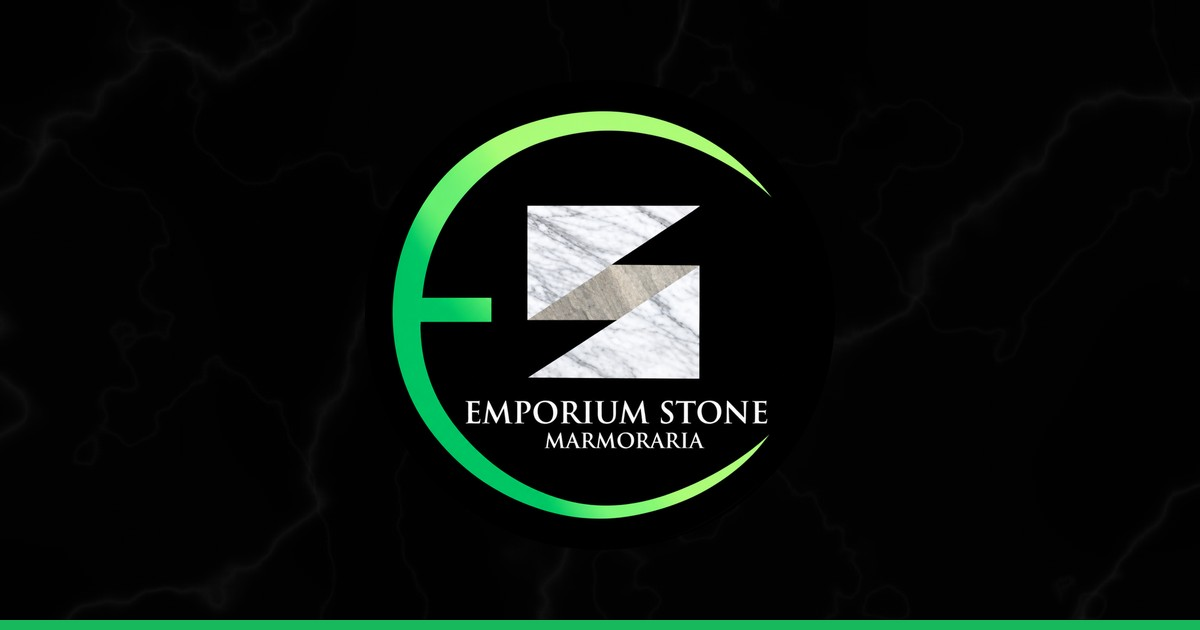
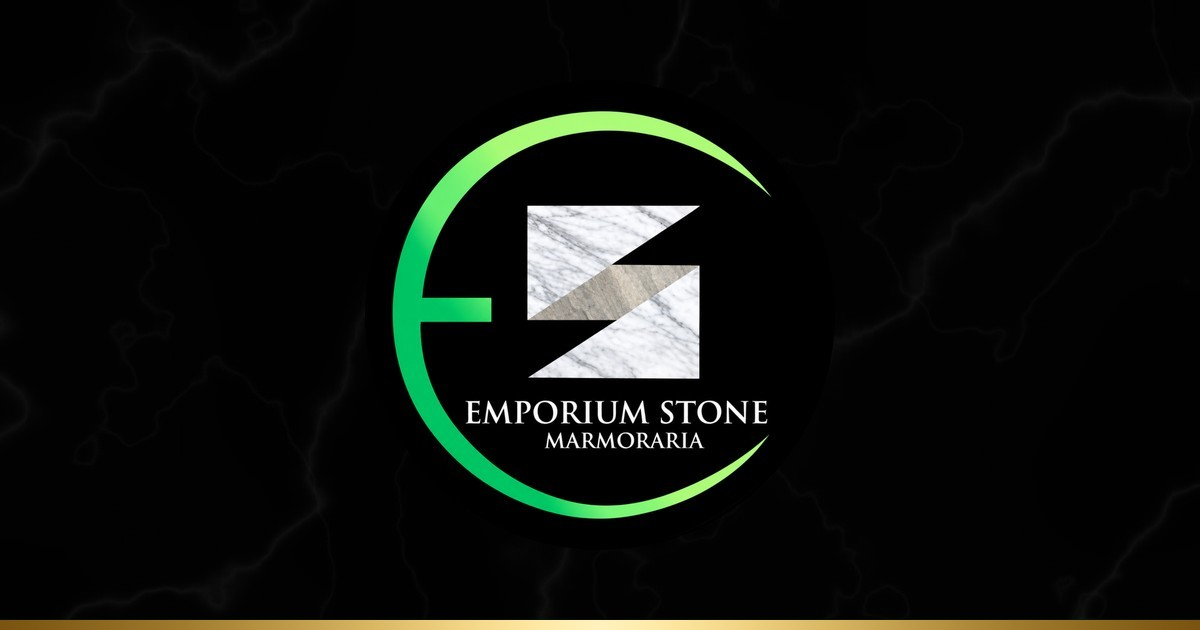
Fundo em mármore com veios dourados, verde trocado por dourado e nova foto do CEO
Claude-Session: https://claude.ai/code/session_01AbjRSK3UTqCQNtBB9hZPyQ

Changed region(s): [[0.0, 0.9651, 1.0, 1.0]]

diff --git a/index.html b/index.html
@@ -38,9 +38,12 @@ Técnico: mobile primeiro, contraste AA, foco visível, transform/opacity, prefe
   --nero:#0c0d0d;           /* nero marquina */
   --vein:#5d6461;           /* cinza do veio */
   --line:#dfe2df;
-  --green:#119c4c;          /* verde do logo, versão legível no branco */
-  --green-hi:#5fe08a;       /* verde do logo no preto */
-  --lime:#a6f272;
+  --green:#8a6416;          /* dourado para texto no branco (AA) */
+  --green-hi:#e8c36a;       /* dourado claro no preto */
+  --lime:#f7e3a3;
+  --gold-grad:linear-gradient(100deg,#7a5410 0%,#b8871f 22%,#e9c766 42%,#fff1bf 50%,#e3bb52 58%,#b8871f 78%,#7a5410 100%);
+  --gold-deep:linear-gradient(100deg,#6b470a 0%,#9c6d14 25%,#c99628 45%,#e2b84e 52%,#c99628 60%,#9c6d14 80%,#6b470a 100%);
+  --gold-flat:linear-gradient(135deg,#a57a1d,#e6c062 55%,#c99a2e);
   --ink:#151716;
   --f-display:"Marcellus","Cormorant Garamond",Georgia,serif;
   --f-body:"Manrope","Segoe UI",system-ui,sans-serif;
@@ -51,10 +54,11 @@ Técnico: mobile primeiro, contraste AA, foco visível, transform/opacity, prefe
 }
 *{box-sizing:border-box}
 html{overflow-x:clip;scroll-behavior:smooth;scroll-padding-top:84px}
-@media (prefers-reduced-motion:reduce){html{scroll-behavior:auto}*,*::before,*::after{animation-duration:.01ms!important;animation-iteration-count:1!important;transition-duration:.01ms!important}}
+@media (prefers-reduced-motion:reduce){html{scroll-behavior:auto}.hero h1 em,.light .solo-copy h2 em{font-style:normal;background:var(--gold-deep)!important;background-size:220% 100%!important;-webkit-background-clip:text!important;background-clip:text!important}
+.solo-copy h2 em,.final h2 em{animation:none}*,*::before,*::after{animation-duration:.01ms!important;animation-iteration-count:1!important;transition-duration:.01ms!important}}
 body{margin:0;background:var(--chalk);color:var(--ink);font:400 16px/1.65 var(--f-body);-webkit-font-smoothing:antialiased;overflow-x:hidden}
 /* mármore em todo o site */
-body::after{content:"";position:fixed;inset:0;z-index:-1;background:url(img/marmore-fundo.jpg) center/900px repeat;opacity:.55}
+body::after{content:"";position:fixed;inset:0;z-index:-1;background:url(img/marmore-fundo.jpg) center/cover no-repeat;opacity:1}
 body::before{content:"";position:fixed;inset:0 0 auto;height:env(safe-area-inset-top,0px);z-index:60;background:rgba(251,251,250,.96)}
 img,video{display:block;max-width:100%}
 a{color:inherit}
@@ -62,15 +66,15 @@ a{color:inherit}
 h1,h2,h3{font-family:var(--f-display);font-weight:400;line-height:1.08;margin:0;text-wrap:balance;letter-spacing:.005em}
 p{margin:0}
 .wrap{max-width:var(--wrap);margin:0 auto;padding-left:max(20px,env(safe-area-inset-left,0px));padding-right:max(20px,env(safe-area-inset-right,0px))}
-.sec{position:relative;padding-block:clamp(72px,10vw,128px);background:rgba(255,255,255,.78)}
-.sec.dark{background:rgba(12,13,13,.95);color:#eef0ee}
-.sec.dark::before{content:"";position:absolute;inset:0;background:url(img/marmore-fundo.jpg) center/900px repeat;filter:invert(1);opacity:.07;pointer-events:none}
+.sec{position:relative;padding-block:clamp(72px,10vw,128px);background:rgba(255,255,255,.5)}
+.sec.dark{background:#0c0d0d;color:#eef0ee}
+.sec.dark::before{content:"";position:absolute;inset:0;background:url(img/marmore-fundo-escuro.jpg) center/cover no-repeat;opacity:.55;pointer-events:none}
 .sec>.wrap{position:relative}
 .eyebrow{display:inline-flex;align-items:center;gap:10px;font:700 12px/1 var(--f-body);letter-spacing:.2em;text-transform:uppercase;color:var(--green)}
 .dark .eyebrow{color:var(--green-hi)}
-.eyebrow::before{content:"";width:28px;height:2px;background:linear-gradient(90deg,var(--green),var(--lime))}
+.eyebrow::before{content:"";width:28px;height:2px;background:var(--gold-grad)}
 .h2{font-size:clamp(34px,5vw,58px)}
-.lead{font-size:clamp(16px,1.6vw,18px);color:var(--vein);max-width:58ch}
+.lead{font-size:clamp(16px,1.6vw,18px);color:#4a504d;max-width:58ch}
 .dark .lead{color:#b9bfbb}
 .sec-head{display:grid;gap:18px;margin-bottom:clamp(36px,5vw,60px);max-width:760px}
 .sec-head.split{max-width:none;grid-template-columns:1fr;align-items:end}
@@ -82,11 +86,11 @@ p{margin:0}
 .btn{display:inline-flex;align-items:center;gap:10px;min-height:52px;padding:0 24px;border-radius:999px;font:700 15px/1 var(--f-body);text-decoration:none;border:1px solid transparent;transition:transform .2s,background .2s,color .2s,border-color .2s;cursor:pointer}
 .btn:hover{transform:translateY(-2px)}
 .btn-wa{background:var(--nero);color:#fff}
-.btn-wa .dot{width:8px;height:8px;border-radius:50%;background:var(--green-hi);box-shadow:0 0 0 4px rgba(95,224,138,.2)}
+.btn-wa .dot{width:8px;height:8px;border-radius:50%;background:var(--green-hi);box-shadow:0 0 0 4px rgba(232,195,106,.25)}
 .btn-wa:hover{background:#fff;color:var(--nero);border-color:var(--nero)}
 .btn-ghost{border-color:#c9cec9;color:var(--ink);background:rgba(255,255,255,.6)}
 .btn-ghost:hover{background:var(--nero);color:#fff;border-color:var(--nero)}
-.dark .btn-wa{background:linear-gradient(100deg,var(--green-hi),var(--lime));color:var(--nero)}
+.dark .btn-wa{background:var(--gold-grad);color:var(--nero)}
 .dark .btn-wa .dot{background:var(--nero);box-shadow:none}
 .dark .btn-wa{border-color:var(--green-hi)}
 .dark .btn-wa:hover{background:var(--nero);color:var(--green-hi)}
@@ -112,11 +116,12 @@ footer a{transition:color .2s}footer a:hover{color:var(--green-hi)}
 @media(min-width:980px){.menu{display:flex}.nav .btn span.t-long{display:inline}.nav .btn span.t-short{display:none}}
 
 /* hero */
-.hero{padding-block:clamp(40px,6vw,80px) clamp(56px,7vw,96px);background:rgba(255,255,255,.72)}
+.hero{padding-block:clamp(40px,6vw,80px) clamp(56px,7vw,96px);background:rgba(255,255,255,.55)}
 .hero .wrap{display:grid;gap:44px;align-items:center}
 @media(min-width:960px){.hero .wrap{grid-template-columns:1.05fr .95fr;gap:64px}}
 .hero h1{font-size:clamp(40px,6.4vw,78px)}
-.hero h1 em{font-style:normal;background:linear-gradient(100deg,var(--green),#4fc96f);-webkit-background-clip:text;background-clip:text;color:transparent}
+.hero h1 em{font-style:normal;background:var(--gold-deep);background-size:220% 100%;-webkit-background-clip:text;background-clip:text;color:transparent;animation:shine 6s ease-in-out infinite}
+@keyframes shine{0%,100%{background-position:0% 50%}50%{background-position:100% 50%}}
 .hero-copy{display:grid;gap:26px}
 .hero-sub{font-size:clamp(16px,1.7vw,19px);color:var(--vein);max-width:52ch}
 .hero-cta{display:flex;flex-wrap:wrap;gap:12px}
@@ -140,7 +145,7 @@ footer a{transition:color .2s}footer a:hover{color:var(--green-hi)}
 @media(max-width:600px){.ficha{left:10px;bottom:10px;min-width:0}.hero-art .slab{inset:-10px -6px auto auto}}
 
 /* selos */
-.seals{background:rgba(255,255,255,.9);border-block:1px solid var(--line)}
+.seals{background:rgba(255,255,255,.82);border-block:1px solid var(--line)}
 .seals ul{list-style:none;margin:0;padding:0;display:grid;grid-template-columns:1fr 1fr}
 @media(min-width:900px){.seals ul{grid-template-columns:repeat(4,1fr)}}
 .seals li{min-width:0;display:flex;align-items:center;gap:14px;padding:22px 16px;font-weight:700;font-size:14px;line-height:1.3;text-transform:uppercase;letter-spacing:.06em}
@@ -153,7 +158,7 @@ footer a{transition:color .2s}footer a:hover{color:var(--green-hi)}
 .band{background:var(--nero);color:#fff;overflow:hidden;padding-block:20px;position:relative}
 .band .track{display:flex;gap:44px;width:max-content;animation:marquee 38s linear infinite}
 .band span{font:400 clamp(22px,3vw,32px)/1 var(--f-display);letter-spacing:.06em;display:inline-flex;align-items:center;gap:44px;white-space:nowrap}
-.band span::after{content:"";width:12px;height:12px;background:linear-gradient(135deg,var(--green-hi),var(--lime));clip-path:polygon(0 0,100% 0,0 100%)}
+.band span::after{content:"";width:12px;height:12px;background:var(--gold-flat);clip-path:polygon(0 0,100% 0,0 100%)}
 @keyframes marquee{to{transform:translateX(-50%)}}
 
 /* fichas técnicas */
@@ -207,10 +212,11 @@ figcaption span{font-size:12px;letter-spacing:.14em;text-transform:uppercase;opa
 .solo-media .tag{position:absolute;top:16px;left:16px;display:inline-flex;align-items:center;gap:8px;background:rgba(0,0,0,.62);color:#fff;padding:8px 12px;border-radius:999px;font:700 11px/1 var(--f-body);letter-spacing:.16em;text-transform:uppercase}
 .solo-media .tag i{width:7px;height:7px;border-radius:50%;background:#ff4d4d;animation:blink 1.4s infinite}
 @keyframes blink{50%{opacity:.25}}
-.solo-media .corner{position:absolute;right:-14px;bottom:-14px;width:40%;aspect-ratio:1;z-index:-1;background:linear-gradient(135deg,var(--green-hi),var(--lime));clip-path:polygon(100% 0,100% 100%,0 100%)}
+.solo-media .corner{position:absolute;right:-14px;bottom:-14px;width:40%;aspect-ratio:1;z-index:-1;background:var(--gold-flat);clip-path:polygon(100% 0,100% 100%,0 100%)}
 .solo-copy{display:grid;gap:22px}
-.solo-copy h2 em{font-style:normal;color:var(--green-hi)}
-.light .solo-copy h2 em{color:var(--green)}
+.light .solo-copy h2 em{font-style:normal;background:var(--gold-deep)!important;background-size:220% 100%!important;-webkit-background-clip:text!important;background-clip:text!important}
+.solo-copy h2 em,.final h2 em{font-style:normal;background:var(--gold-grad);background-size:220% 100%;-webkit-background-clip:text;background-clip:text;color:transparent;animation:shine 6s ease-in-out infinite}
+
 .points{list-style:none;padding:0;margin:8px 0 0;display:grid;gap:14px}
 .points li{display:grid;grid-template-columns:auto 1fr;gap:14px;align-items:start}
 .points .ico{width:40px;height:40px;padding:9px;border:1px solid rgba(255,255,255,.18);border-radius:50%;color:var(--green-hi)}
@@ -238,7 +244,7 @@ figcaption span{font-size:12px;letter-spacing:.14em;text-transform:uppercase;opa
 .dark .arw{background:transparent;color:#fff;border-color:rgba(255,255,255,.3)}
 .dark .arw:hover{background:#fff;color:var(--nero)}
 .progress{flex:1;height:2px;background:var(--line);position:relative;max-width:420px}
-.progress i{position:absolute;left:0;top:0;bottom:0;width:20%;background:linear-gradient(90deg,var(--green),var(--lime));transition:left .3s,width .3s}
+.progress i{position:absolute;left:0;top:0;bottom:0;width:20%;background:var(--gold-grad);transition:left .3s,width .3s}
 
 /* dois grandes */
 .duo{display:grid;gap:18px}
@@ -254,7 +260,7 @@ figcaption span{font-size:12px;letter-spacing:.14em;text-transform:uppercase;opa
 .vcar{position:relative;height:clamp(420px,62vw,600px);margin-top:10px}
 .vcar .vitem{position:absolute;top:0;left:50%;width:min(72vw,360px);aspect-ratio:4/5;margin-left:calc(min(72vw,360px)/-2);transition:transform .6s cubic-bezier(.2,.7,.2,1),opacity .6s,filter .6s;cursor:pointer;overflow:hidden;background:#111;border:0;padding:0}
 .vcar .vitem video{width:100%;height:100%;object-fit:cover;pointer-events:none}
-.vcar .vitem.on{cursor:default;box-shadow:0 30px 80px -30px rgba(95,224,138,.45);outline:1px solid rgba(95,224,138,.5)}
+.vcar .vitem.on{cursor:default;box-shadow:0 30px 80px -30px rgba(232,195,106,.45);outline:1px solid rgba(232,195,106,.55)}
 .vcar .vitem .vcap{position:absolute;left:0;right:0;bottom:0;padding:40px 16px 14px;background:linear-gradient(transparent,rgba(0,0,0,.75));color:#fff;text-align:left;font:400 18px/1.2 var(--f-display);opacity:0;transition:opacity .4s}
 .vcar .vitem.on .vcap{opacity:1}
 .vctrl{display:flex;justify-content:center;align-items:center;gap:14px;margin-top:8px}
@@ -271,7 +277,7 @@ figcaption span{font-size:12px;letter-spacing:.14em;text-transform:uppercase;opa
 .steps li::before{counter-increment:s;content:"0" counter(s);font:400 46px/1 var(--f-display);color:var(--green)}
 .steps li .ico{position:absolute;right:22px;top:26px;width:28px;height:28px;color:var(--green)}
 .steps h3{font-size:23px}
-.steps li:nth-child(2n){background:linear-gradient(140deg,#0c8a43,#0f9a4b);border-color:#0c8a43;color:#fff}
+.steps li:nth-child(2n){background:linear-gradient(135deg,#7a540f,#a9781c 50%,#8a6114);border-color:#7a540f;color:#fff}
 .steps li:nth-child(2n)::before,.steps li:nth-child(2n) .ico{color:#fff}
 .steps li:nth-child(2n) p{color:rgba(255,255,255,.92)}
 .steps p{font-size:14.5px;color:var(--vein)}
@@ -298,7 +304,7 @@ figcaption span{font-size:12px;letter-spacing:.14em;text-transform:uppercase;opa
 .rev header small{color:#7b827e;font-size:12.5px}
 .rev .stars{font-size:14px}
 .rev p{font-size:15px;color:#333836}
-.rev mark{background:linear-gradient(transparent 60%,rgba(166,242,114,.55) 60%);color:inherit}
+.rev mark{background:linear-gradient(transparent 60%,rgba(232,195,106,.5) 60%);color:inherit}
 
 /* CEO */
 .ceo{display:grid;gap:44px;align-items:center}
@@ -307,7 +313,7 @@ figcaption span{font-size:12px;letter-spacing:.14em;text-transform:uppercase;opa
 .ceo-photo .p{aspect-ratio:4/5;overflow:hidden;background:#cfd2d6}
 .ceo-photo img{width:100%;height:100%;object-fit:cover}
 .ceo-photo{isolation:isolate}
-.ceo-photo .slab{position:absolute;left:-12px;top:-12px;width:66%;height:82%;z-index:-1;background:linear-gradient(100deg,#0fbf55 0%,#8ef5b0 45%,#a6f272 100%);clip-path:polygon(0 0,calc(100% - 14px) 0,100% 14px,100% 100%,14px 100%,0 calc(100% - 14px))}
+.ceo-photo .slab{position:absolute;left:-12px;top:-12px;width:66%;height:82%;z-index:-1;background:var(--gold-grad);clip-path:polygon(0 0,calc(100% - 14px) 0,100% 14px,100% 100%,14px 100%,0 calc(100% - 14px))}
 @media(max-width:600px){.ceo-photo .slab{left:-8px;top:-8px}}
 .ceo-photo .sig{position:absolute;right:-10px;bottom:24px;background:#fff;color:var(--ink);padding:14px 18px;display:grid;gap:3px}
 .ceo-photo .sig b{font:400 22px/1 var(--f-display)}
@@ -326,8 +332,8 @@ blockquote::before{content:"\201C";position:absolute;top:-8px;left:-4px;font:400
 .panel .contact-list{margin-top:auto}
 .panel h3{font-size:28px;display:flex;align-items:center;gap:12px}
 .panel h3 .ico{color:var(--green);width:26px;height:26px}
-.status{display:inline-flex;align-items:center;gap:8px;font-weight:700;font-size:13px;padding:7px 12px;border-radius:999px;background:#eef8f1;color:#0b7a3a;width:max-content}
-.status i{width:8px;height:8px;border-radius:50%;background:#18b85c}
+.status{display:inline-flex;align-items:center;gap:8px;font-weight:700;font-size:13px;padding:7px 12px;border-radius:999px;background:#f7efdb;color:#7a5410;width:max-content}
+.status i{width:8px;height:8px;border-radius:50%;background:#c99a2e}
 .status.closed{background:#f5eeee;color:#a12c2c}.status.closed i{background:#d24545}
 .hours{width:100%;border-collapse:collapse;font-variant-numeric:tabular-nums;font-size:15px}
 .hours td{padding:11px 0;vertical-align:top;border-bottom:1px dashed #d6dad7}
@@ -353,7 +359,7 @@ blockquote::before{content:"\201C";position:absolute;top:-8px;left:-4px;font:400
 .final .wrap{display:grid;gap:28px}
 @media(min-width:900px){.final .wrap{grid-template-columns:1.3fr .7fr;align-items:end}}
 .final h2{font-size:clamp(38px,5.8vw,72px)}
-.final h2 em{font-style:normal;color:var(--green-hi)}
+
 .final .side{display:grid;gap:16px;justify-items:start}
 
 /* rodapé */
@@ -376,9 +382,9 @@ footer .legal{grid-column:1/-1;border-top:1px solid #1d2120;padding-top:20px;dis
 .lb .lp{left:calc(10px + env(safe-area-inset-left,0px))}.lb .ln{right:calc(10px + env(safe-area-inset-right,0px))}
 .lb .arw{background:rgba(255,255,255,.08);color:#fff;border-color:rgba(255,255,255,.35)}
 .lb .arw:hover{background:#fff;color:var(--nero)}
-.fab{position:fixed;right:calc(18px + env(safe-area-inset-right,0px));bottom:calc(18px + env(safe-area-inset-bottom,0px));z-index:70;width:60px;height:60px;border-radius:50%;background:#25d366;color:#fff;display:grid;place-items:center;box-shadow:0 14px 30px -10px rgba(0,0,0,.45);transition:transform .2s}
-.fab{border:2px solid #25d366;transition:transform .2s,background .2s,color .2s}
-.fab:hover{transform:scale(1.06);background:#fff;color:#25d366}
+.fab{position:fixed;right:calc(18px + env(safe-area-inset-right,0px));bottom:calc(18px + env(safe-area-inset-bottom,0px));z-index:70;width:60px;height:60px;border-radius:50%;background:var(--gold-flat);color:#1a1205;display:grid;place-items:center;box-shadow:0 14px 30px -10px rgba(0,0,0,.45);transition:transform .2s}
+.fab{border:2px solid #c99a2e;transition:transform .2s,background .2s,color .2s}
+.fab:hover{transform:scale(1.06);background:var(--nero);color:var(--green-hi)}
 .fab svg{width:30px;height:30px;fill:currentColor}
 
 /* revelar */
@@ -387,7 +393,7 @@ footer .legal{grid-column:1/-1;border-top:1px solid #1d2120;padding-top:20px;dis
 
 /* abertura com o logo */
 .intro{position:fixed;inset:0;z-index:100;background:var(--nero);display:grid;place-items:center;transition:transform .9s cubic-bezier(.7,0,.2,1),opacity .9s}
-.intro::before{content:"";position:absolute;inset:0;background:url(img/marmore-fundo.jpg) center/900px repeat;filter:invert(1);opacity:.08}
+.intro::before{content:"";position:absolute;inset:0;background:url(img/marmore-fundo-escuro.jpg) center/cover no-repeat;opacity:.6}
 .intro .lg{position:relative;width:min(46vw,240px);aspect-ratio:1;animation:lgIn 1.1s cubic-bezier(.2,.8,.2,1) both}
 .intro .lg img{width:100%;height:100%;border-radius:50%}
 .intro .lg::after{content:"";position:absolute;inset:-14px;border-radius:50%;border:2px solid transparent;border-top-color:var(--green-hi);border-right-color:var(--lime);animation:ring 1.4s .2s cubic-bezier(.4,0,.2,1) both}
@@ -544,7 +550,7 @@ footer .legal{grid-column:1/-1;border-top:1px solid #1d2120;padding-top:20px;dis
   </section>
 
   <!-- PORTFÓLIO DESTAQUE -->
-  <section class="sec" id="portfolio" aria-labelledby="h-port" style="background:rgba(255,255,255,.62)">
+  <section class="sec" id="portfolio" aria-labelledby="h-port" style="background:rgba(255,255,255,.4)">
     <div class="wrap">
       <div class="sec-head"><span class="eyebrow">Portfólio</span><h2 class="h2" id="h-port">Transformamos pedras em ambientes únicos</h2></div>
       <div class="feat">
@@ -613,7 +619,7 @@ footer .legal{grid-column:1/-1;border-top:1px solid #1d2120;padding-top:20px;dis
   </section>
 
   <!-- CARROSSEL DE VÍDEOS -->
-  <section class="sec dark" aria-labelledby="h-vid" style="background:rgba(7,8,8,.97);padding-top:0">
+  <section class="sec dark" aria-labelledby="h-vid" style="background:#070808;padding-top:0">
     <div class="wrap">
       <div class="sec-head" style="text-align:center;margin-inline:auto;justify-items:center"><span class="eyebrow">Por dentro da obra</span><h2 class="h2" id="h-vid">Veja o trabalho de perto</h2><p class="lead">Do corte na oficina à peça instalada. Toque nos vídeos dos lados para trazer para o centro.</p></div>
       <div class="vcar" id="vcar"></div>
@@ -630,7 +636,7 @@ footer .legal{grid-column:1/-1;border-top:1px solid #1d2120;padding-top:20px;dis
     <div class="wrap solo flip">
       <div class="solo-media rv">
         <div class="vbox cut"><video src="video/projeto-3d.mp4" poster="video/projeto-3d.jpg" muted loop playsinline autoplay preload="metadata" aria-label="Projeto de bancada sendo ajustado em visualização 3D no tablet"></video></div>
-        <span class="tag" style="background:rgba(17,156,76,.9)"><svg class="ico" style="width:14px;height:14px"><use href="#i-tablet"/></svg>Visualização 3D</span>
+        <span class="tag" style="background:rgba(138,100,22,.92)"><svg class="ico" style="width:14px;height:14px"><use href="#i-tablet"/></svg>Visualização 3D</span>
         <div class="corner" aria-hidden="true"></div>
       </div>
       <div class="solo-copy">
@@ -647,7 +653,7 @@ footer .legal{grid-column:1/-1;border-top:1px solid #1d2120;padding-top:20px;dis
   </section>
 
   <!-- COMO TRABALHAMOS -->
-  <section class="sec" aria-labelledby="h-steps" style="background:rgba(255,255,255,.6)">
+  <section class="sec" aria-labelledby="h-steps" style="background:rgba(255,255,255,.4)">
     <div class="wrap">
       <div class="sec-head"><span class="eyebrow">Como trabalhamos</span><h2 class="h2" id="h-steps">Do primeiro contato à peça instalada</h2></div>
       <ol class="steps">
